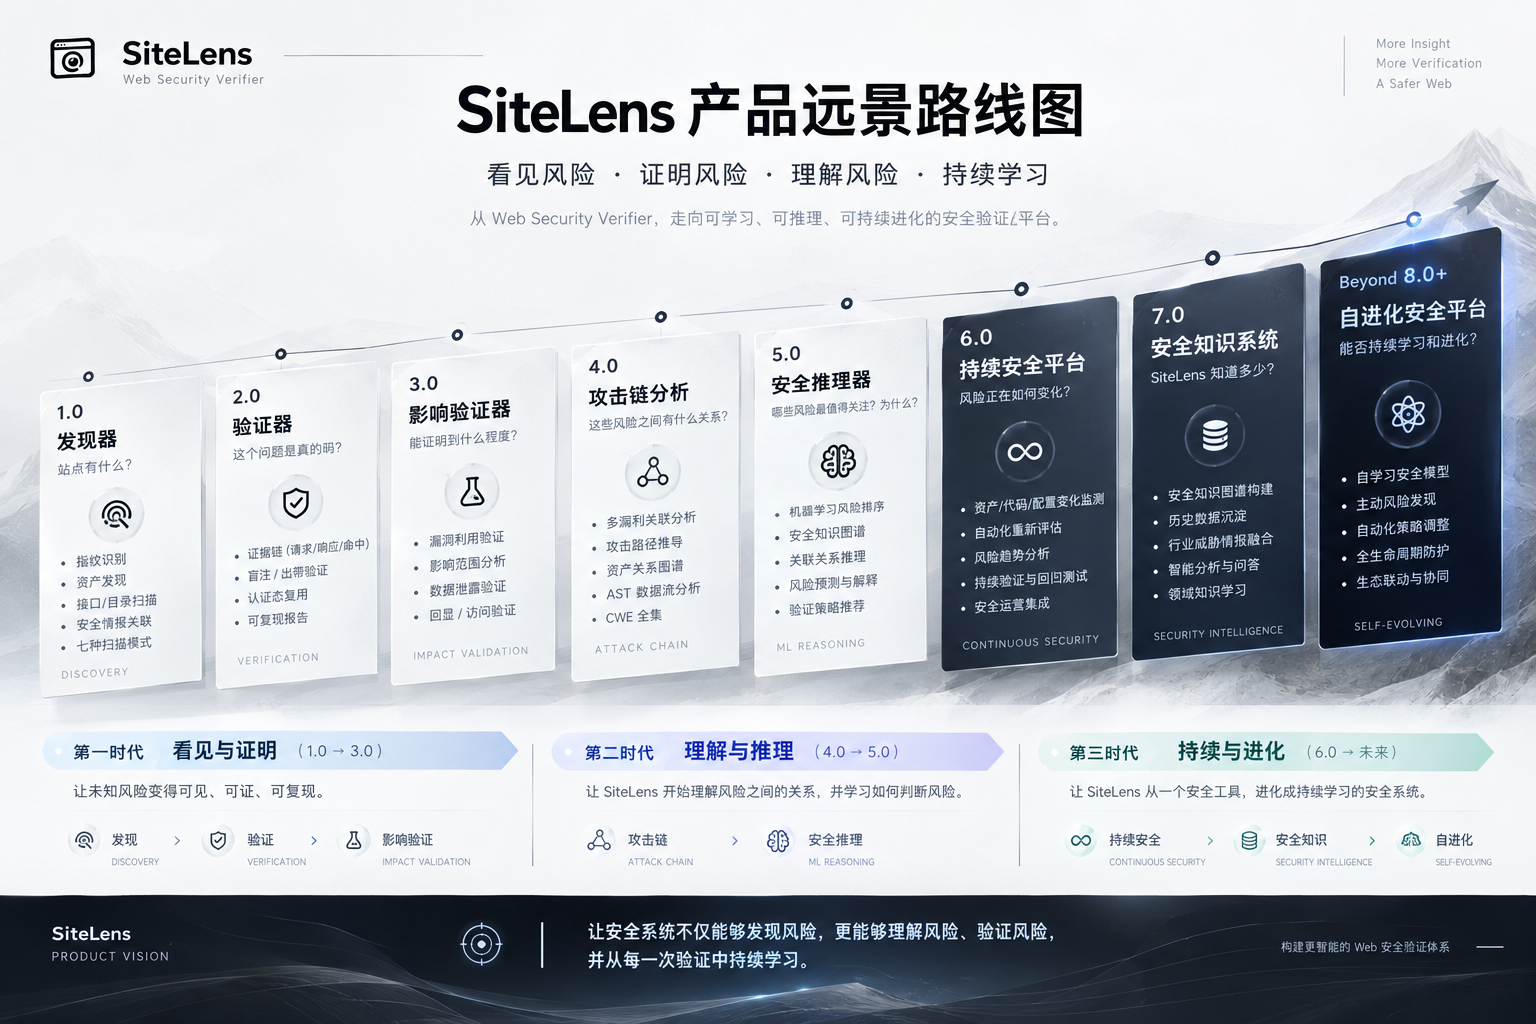
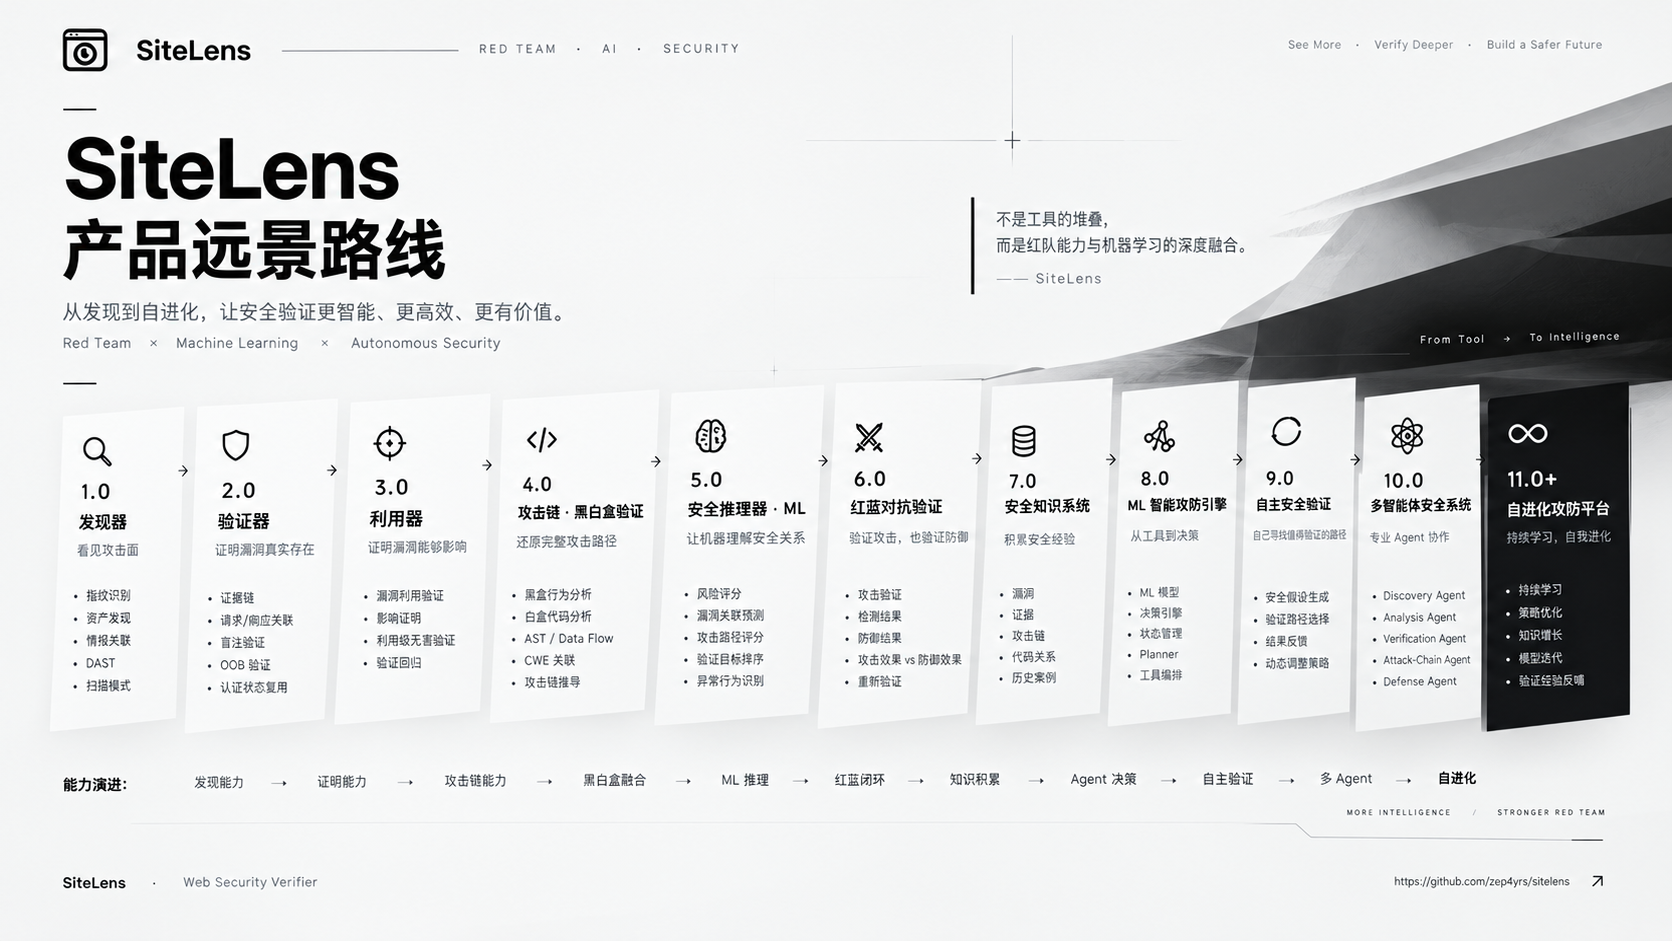
路线图更新为 11 段远景（新增红蓝对抗/ML 攻防引擎/自主验证/多智能体，红队×ML×自主安全主线）

diff --git a/README.md b/README.md
@@ -118,27 +118,26 @@ go build -o sitelens.exe ./cmd/sitelens
 ## 路线图 —— 产品远景
 
 <div align="center">
-  <img src="assets/roadmap.png" width="100%" alt="SiteLens 产品远景路线图：看见风险 · 证明风险 · 理解风险 · 持续学习">
+  <img src="assets/roadmap.png" width="100%" alt="SiteLens 产品远景路线：Red Team × Machine Learning × Autonomous Security，从发现到自进化">
 </div>
 
-**三个时代：**
-
-| 时代 | 版本 | 主题 | 一句话 |
-|---|---|---|---|
-| 第一时代 | 1.0 → 3.0 | **看见与证明** | 让未知风险变得可见、可证、可复现 |
-| 第二时代 | 4.0 → 5.0 | **理解与推理** | 理解风险之间的关系，学习如何判断风险 |
-| 第三时代 | 6.0 → 未来 | **持续与进化** | 从一个安全工具，进化成持续学习的安全系统 |
+**不是工具的堆叠，而是红队能力与机器学习的深度融合。** 从发现到自进化，让安全验证更智能、更高效、更有价值。
 
 | 版本 | 定位 | 核心问题 | 关键能力 |
 |---|---|---|---|
-| **1.0 发现器**（已发布） | DISCOVERY | 站点有什么？ | 指纹识别 · 资产发现 · 接口/目录扫描 · 安全情报关联 · 七种扫描模式 |
-| **2.0 验证器** ✅ 当前版本 | VERIFICATION | 这个问题是真的吗？ | 证据链（请求/响应/命中）· 盲注/出带验证 · 认证态复用 · 可复现报告 |
-| **3.0 影响验证器** | IMPACT VALIDATION | 能证明到什么程度？ | 漏洞利用验证 · 影响范围分析 · 数据泄露验证 · 回显/访问验证 |
-| **4.0 攻击链分析** | ATTACK CHAIN | 这些风险之间有什么关系？ | 多源关联分析 · 攻击路径推导 · 资产关系图谱 · AST 数据流分析 · CWE 全集 |
-| **5.0 安全推理器** | ML REASONING | 哪些风险最值得关注？为什么？ | 机器学习风险排序 · 安全知识图谱 · 关联关系推理 · 风险预测与解释 · 验证策略推荐 |
-| **6.0 持续安全平台** | CONTINUOUS SECURITY | 风险正在如何变化？ | 资产/代码/配置变化监测 · 自动化重新评估 · 风险趋势分析 · 持续验证与回归测试 · 安全运营集成 |
-| **7.0 安全知识系统** | SECURITY INTELLIGENCE | SiteLens 知道多少？ | 安全知识图谱构建 · 历史数据沉淀 · 行业威胁情报融合 · 智能分析与问答 · 领域知识学习 |
-| **Beyond 8.0+ 自进化安全平台** | SELF-EVOLVING | 能否持续学习和进化？ | 自学习安全模型 · 主动风险发现 · 自动化策略调整 · 全生命周期防护 · 生态联动与协同 |
+| **1.0 发现器**（已发布） | DISCOVERY | 看见攻击面 | 指纹识别 · 资产发现 · 情报关联 · DAST · 扫描模式 |
+| **2.0 验证器** ✅ 当前版本 | VERIFICATION | 证明漏洞真实存在 | 证据链（请求/响应/命中）· 盲注/出带验证 · 认证态复用 · 可复现报告 |
+| **3.0 利用器** | EXPLOIT VALIDATION | 证明漏洞能够影响 | 漏洞利用验证 · 影响证明 · 利用级无害验证 · 验证回归 |
+| **4.0 攻击链·黑白盒验证** | ATTACK CHAIN | 还原完整攻击路径 | 黑盒行为分析 · 白盒代码分析 · AST/Data Flow · CWE 关联 · 攻击链推导 |
+| **5.0 安全推理器·ML** | ML REASONING | 让机器理解安全关系 | 风险评分 · 漏洞关联预测 · 攻击路径评分 · 验证目标排序 · 异常行为识别 |
+| **6.0 红蓝对抗验证** | RED-BLUE VALIDATION | 验证攻击，也验证防御 | 攻击验证 · 检测结果 · 防御结果 · 攻防效果对比 · 重新验证 |
+| **7.0 安全知识系统** | SECURITY INTELLIGENCE | 积累安全经验 | 漏洞 · 证据 · 攻击链 · 代码关系 · 历史案例 |
+| **8.0 ML 智能攻防引擎** | 从工具到决策 | 下一步做什么？ | ML 模型 · 决策引擎 · 状态管理 · Planner · 工具编排 |
+| **9.0 自主安全验证** | AUTONOMOUS VERIFICATION | 自主寻找并验证薄弱点 | 安全假设生成 · 验证路径选择 · 结果反馈 · 动态调整策略 |
+| **10.0 多智能体安全系统** | MULTI-AGENT | 专业 Agent 协作 | Discovery / Analysis / Verification / Attack-Chain / Defense Agent |
+| **11.0+ 自进化攻防平台** | SELF-EVOLVING | 持续学习，自我进化 | 持续学习 · 策略优化 · 知识增长 · 模型迭代 · 验证经验反哺 |
+
+**能力演进**：发现能力 → 证明能力 → 攻击链能力 → 黑白盒融合 → ML 推理 → 红蓝闭环 → 知识积累 → Agent 决策 → 自主验证 → 多 Agent → 自进化
 
 ## 合规
 
